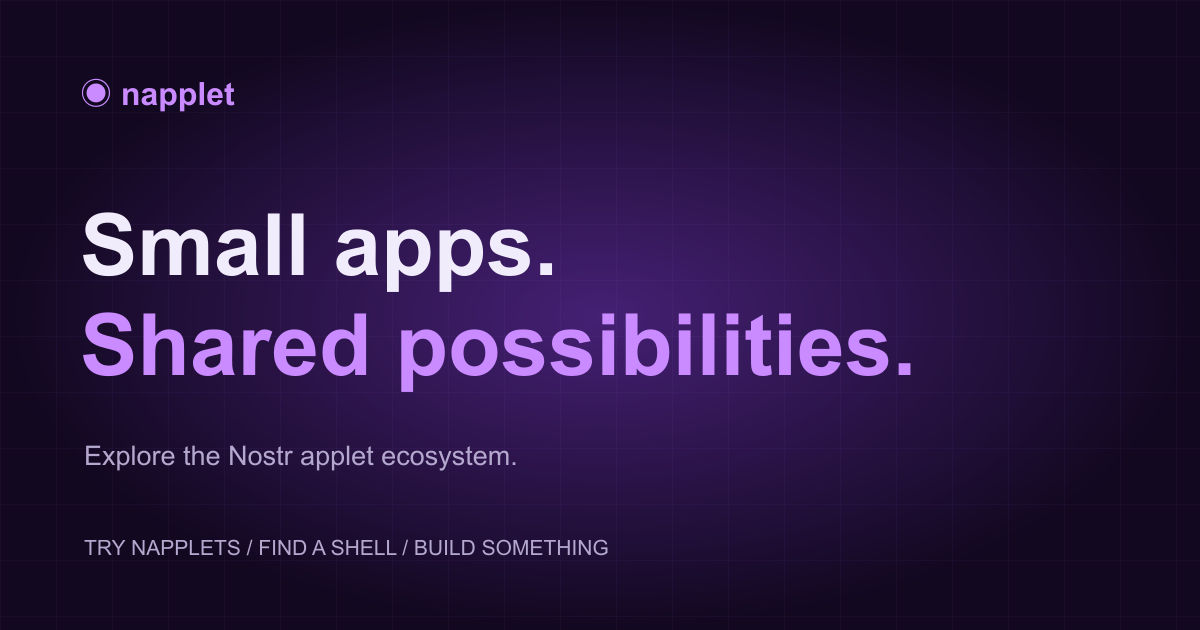
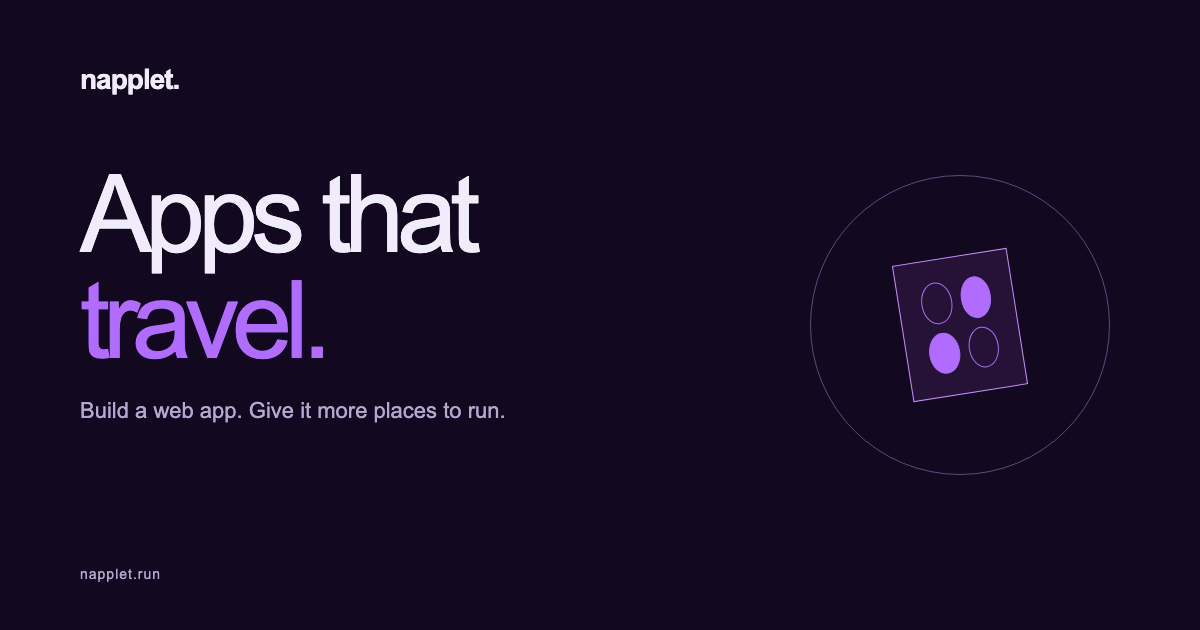
feat(web): carry the app through the scroll narrative
Label historical previews, preserve their signature chain, and verify responsive motion and static deployment output.

diff --git a/apps/web/src/styles/showcase.css b/apps/web/src/styles/showcase.css
@@ -1,4 +1,4 @@
-/* The ecosystem homepage shares the explainer's aubergine and Nostr purple. */
+/* Shared aubergine palette with the technical explainer. */
 :root {
   font-family: Inter, ui-sans-serif, system-ui, -apple-system, BlinkMacSystemFont, "Segoe UI", sans-serif;
   color: #f1ecfb;
@@ -43,7 +43,7 @@ img { max-width: 100%; display: block; }
 .hero-scene { padding-top: 152px; padding-bottom: 112px; }
 .hero-scene::before { background: radial-gradient(ellipse at 74% 48%, #702ab52a, transparent 58%); }
 .hero-grid { display: grid; grid-template-columns: 1.05fr 1fr; align-items: center; gap: 52px; }
-.hero-grid > *, .composition-apps > *, .protocol-grid > * { min-width: 0; }
+.hero-grid > *, .protocol-grid > * { min-width: 0; }
 .eyebrow { display: flex; align-items: center; gap: 12px; margin-bottom: 24px; color: var(--accent-bright); font: 11px/1.5 var(--mono); letter-spacing: 1.9px; text-transform: uppercase; }
 .status-dot { display: inline-block; width: 6px; height: 6px; border-radius: 50%; background: #c98bff; box-shadow: 0 0 10px #b06bff50; flex-shrink: 0; }
 .hero-copy h1 { font-size: clamp(56px, 6.8vw, 92px); font-weight: 640; }
@@ -61,36 +61,6 @@ img { max-width: 100%; display: block; }
 .hero-baseline { position: absolute; left: 0; right: 0; bottom: 30px; display: flex; justify-content: space-between; gap: 18px; color: #ac9abf; font: 10px/1.5 var(--mono); letter-spacing: 0.7px; }
 .hero-baseline a { display: flex; align-items: center; gap: 22px; }
 .hero-baseline a span { font-size: 18px; color: var(--accent); }
-.composition { position: relative; padding-top: 72px; padding-bottom: 36px; width: 100%; max-width: 540px; margin-inline: auto; isolation: isolate; }
-.composition-orbit { position: absolute; width: 96%; aspect-ratio: 1; border: 1px dashed #b06bff20; border-radius: 50%; left: 2%; top: -14%; z-index: -1; }
-.composition-orbit::before { content: ""; position: absolute; inset: 40px; border: 1px solid #b06bff10; border-radius: 50%; }
-.composition-caption { position: absolute; top: 0; left: 0; width: 100%; display: flex; align-items: center; justify-content: space-between; color: #aa82cd; font: 9px var(--mono); letter-spacing: 2px; }
-.crosshair { font-size: 23px; font-weight: 300; }
-.composition-apps { display: grid; grid-template-columns: repeat(3, minmax(0, 1fr)); gap: 16px; position: relative; z-index: 1; }
-.composition-app { aspect-ratio: 0.88; border: 1px solid #735194; border-radius: 10px; padding: 18px 14px 12px; display: flex; flex-direction: column; align-items: flex-start; background: linear-gradient(145deg, #3a1b5b, #241237); box-shadow: 0 20px 40px #08020f40; }
-.app-music { transform: rotate(-7deg) translateY(8px); border-color: #72508e; }
-.app-notes { transform: translateY(-14px); background: linear-gradient(145deg, #253c44, #182931); border-color: #416671; }
-.app-discover { transform: rotate(7deg) translateY(8px); background: linear-gradient(145deg, #48274b, #321630); border-color: #78446d; }
-.app-symbol { font-size: 34px; color: #d8a9ff; line-height: 1; }
-.app-notes .app-symbol { color: #92dce1; }
-.app-discover .app-symbol { color: #f1a8d3; }
-.app-caption { font: 8px/1.5 var(--mono); color: #dbcae7; margin-top: auto; padding-top: 20px; white-space: nowrap; }
-.waveform { display: flex; align-items: center; gap: 4px; height: 34px; width: 100%; margin-top: 15px; }
-.waveform i { flex: 1; height: 45%; background: #b980ec; border-radius: 2px; }
-.waveform i:nth-child(2n) { height: 85%; }.waveform i:nth-child(3n) { height: 60%; }.waveform i:nth-child(4) { height: 100%; }
-.note-lines { width: 100%; margin-top: 16px; display: grid; gap: 8px; }
-.note-lines i { height: 3px; width: 95%; background: #78afb766; border-radius: 2px; }.note-lines i:last-child { width: 60%; }
-.discovery-dots { display: flex; margin-top: 18px; }.discovery-dots i { width: 23px; height: 23px; border-radius: 50%; border: 2px solid #542b50; background: #d787b9; margin-right: -7px; }.discovery-dots i:nth-child(2) { background: #8b6cc9; }.discovery-dots i:nth-child(3) { background: #7dc2c9; }.discovery-dots i:nth-child(4) { background: #e1b776; }
-.composition-paths { height: 60px; display: grid; grid-template-columns: repeat(3, 1fr); gap: 16px; padding-inline: 40px; }
-.composition-paths i { width: 1px; margin-inline: auto; background: linear-gradient(#9c6bcc, #9c6bcc30); position: relative; transform-origin: top; }
-.composition-paths i::after { content: ""; position: absolute; width: 5px; height: 5px; bottom: 0; left: -2px; border-radius: 50%; background: #c98bff; }
-.composition-shell { border: 1px solid #755297; border-radius: 9px; background: linear-gradient(115deg, #351b4b, #221130); box-shadow: 0 22px 70px #8b2ff725; }
-.composition-shell-top { display: flex; align-items: center; gap: 12px; padding: 19px 20px; font-size: 14px; }
-.shell-logomark { color: #cf9afa; font-weight: 700; font-size: 27px; line-height: 1; letter-spacing: -2px; }
-.shell-window-controls { margin-left: auto; color: #a58ab9; font: 11px var(--mono); }
-.composition-shell-bottom { padding: 12px 20px; border-top: 1px solid #79528a33; display: flex; align-items: center; justify-content: space-between; gap: 14px; color: #c1accf; font-size: 10px; }
-.shell-status { font: 8px var(--mono); display: flex; align-items: center; gap: 6px; }.shell-status i { width: 4px; height: 4px; background: #87d7b1; border-radius: 50%; }
-.composition-footnote { display: flex; justify-content: space-between; margin-top: 20px; color: #ad8ec3; font: 8px var(--mono); letter-spacing: 0.8px; }
 .section-heading { display: flex; justify-content: space-between; align-items: flex-end; gap: 48px; margin-bottom: 46px; }
 .section-number { color: #a184bb; letter-spacing: 0; }
 h2 { font-size: clamp(44px, 5.2vw, 68px); font-weight: 580; }
@@ -127,10 +97,10 @@ h3 { font-size: 22px; font-weight: 600; letter-spacing: -0.04em; }
 .proposal-status { display: inline-flex; align-items: center; gap: 10px; border: 1px solid #5b3a78; border-radius: 4px; padding: 10px 14px; margin-top: 26px; font: 10px var(--mono); color: #d7b3f7; }.proposal-status:hover { border-color: var(--accent); }.protocol-note { color: #aa95bd; font-size: 11px; margin-top: 21px; max-width: 40ch; line-height: 1.8; }
 .protocol-layer { display: flex; align-items: center; gap: 24px; background: linear-gradient(120deg, #251336, #1b102b); border: 1px solid #543667; padding: 24px; border-radius: 6px; }.protocol-layer:hover { border-color: var(--accent); }.layer-index { font: 11px var(--mono); color: #ab81c8; align-self: flex-start; }.protocol-layer h3 { font-size: 30px; margin-top: 6px; }.protocol-layer p { color: var(--muted); font-size: 11px; margin-top: 9px; }.layer-arrow { margin-left: auto; color: #b58cdb; font-size: 21px; }.stack-connector { display: flex; align-items: center; gap: 14px; margin-left: 30px; height: 42px; font: 8px var(--mono); color: #b29bc5; }.stack-connector i { width: 1px; height: 100%; background: #73518e; transform-origin: top; }
 .site-footer { display: flex; align-items: center; flex-wrap: wrap; gap: 26px; padding-block: 35px; }.site-footer .wordmark { font-size: 21px; }.site-footer > p { color: #a18bb6; font-size: 10px; }.site-footer nav { margin-left: auto; display: flex; gap: 22px; font-size: 10px; color: #c4b1d5; }
-@media (min-width: 1600px) { .section-wrap { width: min(1360px, calc(100% - 128px)); }.site-header { padding-inline: max(64px, calc((100vw - 1360px) / 2)); }.hero-copy h1 { font-size: 100px; }.hero-lead { font-size: 19px; }.composition { max-width: 580px; } }
-@media (max-width: 1050px) {  .section-wrap { width: calc(100% - 64px); }.site-header { padding-inline: 32px; }.hero-grid { gap: 32px; }.hero-copy h1 { font-size: clamp(51px, 6.8vw, 75px); }.hero-lead { font-size: 15px; }.composition-apps { gap: 10px; }.composition-app { padding: 15px 10px 10px; }.app-caption { font-size: 7px; }.composition-shell-bottom { font-size: 8px; padding-inline: 14px; }.composition-footnote { font-size: 7px; }.section-heading { gap: 32px; }.section-intro { font-size: 14px; max-width: 32ch; }.napplet-grid { gap: 16px; }.napplet-details { padding: 20px 16px; }.napplet-preview { padding: 16px 16px 0; }.protocol-grid { gap: 48px; }.protocol-layer { padding: 22px 18px; gap: 16px; } }
-@media (max-width: 760px) { .section-wrap { width: calc(100% - 40px); }.scene { padding-block: 80px 64px; }.site-header { height: 68px; padding-inline: 20px; gap: 18px; }.wordmark { font-size: 23px; }.desktop-nav { display: none; }.header-docs { margin-left: auto; font-size: 11px; padding: 6px 10px; gap: 10px; }.mobile-nav { display: block; }.mobile-nav summary { list-style: none; cursor: pointer; font-size: 11px; min-height: 44px; display: flex; align-items: center; gap: 8px; }.mobile-nav summary::-webkit-details-marker { display: none; }.mobile-nav summary > span { color: var(--accent); font-size: 18px; }.mobile-nav[open] summary > span { transform: rotate(45deg); }.mobile-nav nav { position: absolute; top: 67px; left: 0; right: 0; display: grid; padding: 16px 20px 22px; background: #1c0d2d; border-bottom: 1px solid #755097; box-shadow: 0 20px 35px #07021066; }.mobile-nav nav a { padding: 12px 2px; font-size: 14px; border-bottom: 1px solid #44245e; }.hero-scene { padding-top: 119px; padding-bottom: 110px; }.hero-grid { grid-template-columns: 1fr; gap: 68px; }.hero-copy h1 { font-size: clamp(51px, 11vw, 79px); }.hero-lead { max-width: 45ch; font-size: 15px; margin-top: 23px; }.eyebrow { font-size: 9px; letter-spacing: 1.4px; margin-bottom: 20px; }.hero-actions { margin-top: 27px; }.button { font-size: 12px; padding: 12px 17px; gap: 18px; }.hero-copy > .quiet-link { font-size: 11px; }.composition { width: 90%; max-width: 470px; padding-top: 46px; }.composition-orbit { top: -13%; }.composition-app { aspect-ratio: 0.95; padding: 16px 12px 12px; }.composition-apps { gap: 14px; }.app-caption { font-size: 8px; padding-top: 14px; }.composition-shell-bottom { font-size: 9px; }.composition-footnote { font-size: 8px; }.hero-baseline { bottom: 24px; font-size: 8px; }.hero-baseline > span { max-width: 18ch; }.hero-baseline a { gap: 10px; }.section-heading { display: block; margin-bottom: 34px; }.section-intro { max-width: 44ch; font-size: 14px; margin-top: 23px; }h2 { font-size: clamp(43px, 10vw, 62px); }.napplet-grid { grid-template-columns: 1fr; gap: 26px; }.napplet-preview { aspect-ratio: 16 / 9; padding: 24px 24px 0; }.napplet-details { padding: 24px; }.napplet-details > p:not(.card-category) { min-height: 0; font-size: 13px; }.card-category { font-size: 9px; }.napplet-details h3 { font-size: 26px; }.card-links { margin-top: 17px; }.run-link { font-size: 13px; }.source-link { font-size: 11px; }.section-note { flex-wrap: wrap; font-size: 10px; gap: 9px; margin-top: 28px; }.section-note a { width: 100%; margin-left: 24px; }.shell-grid { grid-template-columns: 1fr; gap: 35px; }.shell-description { padding-top: 19px; }.shell-description p:not(.card-category) { max-width: none; }.protocol-grid { grid-template-columns: 1fr; gap: 44px; }.protocol-note { max-width: 47ch; }.protocol-layer { padding: 24px; }.protocol-layer p { font-size: 12px; }.protocol-stack { max-width: 520px; width: 100%; }.site-footer { gap: 15px; padding-block: 30px; }.site-footer > p { margin-left: auto; font-size: 9px; }.site-footer nav { width: 100%; margin-left: 0; gap: 20px; flex-wrap: wrap; font-size: 10px; padding-top: 10px; } }
-@media (max-width: 380px) { .section-wrap { width: calc(100% - 32px); }.site-header { padding-inline: 16px; gap: 12px; }.wordmark { font-size: 21px; }.wordmark img { width: 23px; height: 23px; margin-right: 7px; }.hero-copy h1 { font-size: 48px; }.hero-actions { gap: 8px; }.button { padding-inline: 13px; gap: 12px; }.composition { width: 95%; }.composition-apps { gap: 10px; }.composition-app { padding-inline: 9px; }.app-caption { font-size: 6px; }.app-symbol { font-size: 29px; }.composition-shell-bottom { font-size: 8px; }.shell-status { font-size: 7px; }.composition-footnote { font-size: 7px; }.quiet-link { gap: 7px; }.hero-copy > .quiet-link { font-size: 10px; }.protocol-layer { padding: 20px 16px; gap: 14px; }.protocol-layer p { font-size: 11px; }.protocol-layer .card-category { font-size: 8px; } }
+@media (min-width: 1600px) { .section-wrap { width: min(1360px, calc(100% - 128px)); }.site-header { padding-inline: max(64px, calc((100vw - 1360px) / 2)); }.hero-copy h1 { font-size: 100px; }.hero-lead { font-size: 19px; } }
+@media (max-width: 1050px) {  .section-wrap { width: calc(100% - 64px); }.site-header { padding-inline: 32px; }.hero-grid { gap: 32px; }.hero-copy h1 { font-size: clamp(51px, 6.8vw, 75px); }.hero-lead { font-size: 15px; }.section-heading { gap: 32px; }.section-intro { font-size: 14px; max-width: 32ch; }.napplet-grid { gap: 16px; }.napplet-details { padding: 20px 16px; }.napplet-preview { padding: 16px 16px 0; }.protocol-grid { gap: 48px; }.protocol-layer { padding: 22px 18px; gap: 16px; } }
+@media (max-width: 760px) { .section-wrap { width: calc(100% - 40px); }.scene { padding-block: 80px 64px; }.site-header { height: 68px; padding-inline: 20px; gap: 18px; }.wordmark { font-size: 23px; }.desktop-nav { display: none; }.header-docs { margin-left: auto; font-size: 11px; padding: 6px 10px; gap: 10px; }.mobile-nav { display: block; }.mobile-nav summary { list-style: none; cursor: pointer; font-size: 11px; min-height: 44px; display: flex; align-items: center; gap: 8px; }.mobile-nav summary::-webkit-details-marker { display: none; }.mobile-nav summary > span { color: var(--accent); font-size: 18px; }.mobile-nav[open] summary > span { transform: rotate(45deg); }.mobile-nav nav { position: absolute; top: 67px; left: 0; right: 0; display: grid; padding: 16px 20px 22px; background: #1c0d2d; border-bottom: 1px solid #755097; box-shadow: 0 20px 35px #07021066; }.mobile-nav nav a { padding: 12px 2px; font-size: 14px; border-bottom: 1px solid #44245e; }.hero-scene { padding-top: 119px; padding-bottom: 110px; }.hero-grid { grid-template-columns: 1fr; gap: 68px; }.hero-copy h1 { font-size: clamp(51px, 11vw, 79px); }.hero-lead { max-width: 45ch; font-size: 15px; margin-top: 23px; }.eyebrow { font-size: 9px; letter-spacing: 1.4px; margin-bottom: 20px; }.hero-actions { margin-top: 27px; }.button { font-size: 12px; padding: 12px 17px; gap: 18px; }.hero-copy > .quiet-link { font-size: 11px; }.hero-baseline { bottom: 24px; font-size: 8px; }.hero-baseline > span { max-width: 18ch; }.hero-baseline a { gap: 10px; }.section-heading { display: block; margin-bottom: 34px; }.section-intro { max-width: 44ch; font-size: 14px; margin-top: 23px; }h2 { font-size: clamp(43px, 10vw, 62px); }.napplet-grid { grid-template-columns: 1fr; gap: 26px; }.napplet-preview { aspect-ratio: 16 / 9; padding: 24px 24px 0; }.napplet-details { padding: 24px; }.napplet-details > p:not(.card-category) { min-height: 0; font-size: 13px; }.card-category { font-size: 9px; }.napplet-details h3 { font-size: 26px; }.card-links { margin-top: 17px; }.run-link { font-size: 13px; }.source-link { font-size: 11px; }.section-note { flex-wrap: wrap; font-size: 10px; gap: 9px; margin-top: 28px; }.section-note a { width: 100%; margin-left: 24px; }.shell-grid { grid-template-columns: 1fr; gap: 35px; }.shell-description { padding-top: 19px; }.shell-description p:not(.card-category) { max-width: none; }.protocol-grid { grid-template-columns: 1fr; gap: 44px; }.protocol-note { max-width: 47ch; }.protocol-layer { padding: 24px; }.protocol-layer p { font-size: 12px; }.protocol-stack { max-width: 520px; width: 100%; }.site-footer { gap: 15px; padding-block: 30px; }.site-footer > p { margin-left: auto; font-size: 9px; }.site-footer nav { width: 100%; margin-left: 0; gap: 20px; flex-wrap: wrap; font-size: 10px; padding-top: 10px; } }
+@media (max-width: 380px) { .section-wrap { width: calc(100% - 32px); }.site-header { padding-inline: 16px; gap: 12px; }.wordmark { font-size: 21px; }.wordmark img { width: 23px; height: 23px; margin-right: 7px; }.hero-copy h1 { font-size: 48px; }.hero-actions { gap: 8px; }.button { padding-inline: 13px; gap: 12px; }.quiet-link { gap: 7px; }.hero-copy > .quiet-link { font-size: 10px; }.protocol-layer { padding: 20px 16px; gap: 14px; }.protocol-layer p { font-size: 11px; }.protocol-layer .card-category { font-size: 8px; } }
 @media (prefers-reduced-motion: reduce) { html { scroll-behavior: auto; }*, *::before, *::after { animation: none !important; transition: none !important; } }
 /* Cancel the page's anchor offset so the whole final viewport remains visible. */
 .build-scene { min-height: 100svh; padding-block: clamp(20px, 5svh, 56px); scroll-margin-top: -85px; }
@@ -204,3 +174,21 @@ h2 { font-weight: 450; font-size: clamp(46px, 5.4vw, 76px); }
   .site-footer { gap: 16px; }.site-footer > p { margin-left: 0; }
 }
 @media (prefers-reduced-motion: reduce) { .journey-frame { top: 72px; }.journey-progress { transform: scaleY(1); } }
+/* The traveling glyph becomes hosted, connected, then an open canvas. */
+.object-app { transform: none; }
+.journey-traveler { display: none; position: fixed; left: 0; top: 0; z-index: 16; width: 130px; height: 150px; transform-origin: 0 0; pointer-events: none; }
+.traveler-app { position: absolute; inset: 0; border: 1px solid var(--accent-bright); background: #241334; display: grid; grid-template-columns: 1fr 1fr; gap: 10px; padding: 24px; transition: border-radius .6s, background .6s; }
+.traveler-app i { border: 1px solid var(--accent); border-radius: 50%; transition: transform .6s, opacity .6s, border-radius .6s; }
+.traveler-app i:nth-child(2), .traveler-app i:nth-child(3) { background: var(--accent); }
+.traveler-host { position: absolute; inset: -22px; border: 2px solid var(--accent); opacity: 0; transform: scale(.8); transition: opacity .6s, transform .6s; }
+.traveler-host::before { content: ''; position: absolute; left: 0; right: 0; top: 13px; border-top: 2px solid var(--accent); }
+.traveler-ports { position: absolute; inset: 0; opacity: 0; transition: opacity .6s; }
+.traveler-ports i { position: absolute; left: 100%; top: 25%; width: 30px; height: 2px; background: var(--accent); }
+.traveler-ports i::after { content: ''; position: absolute; right: -6px; top: -4px; width: 10px; height: 10px; border: 2px solid var(--accent); background: var(--bg); }
+.traveler-ports i:nth-child(2) { top: 50%; }.traveler-ports i:nth-child(3) { top: 75%; }
+.journey-traveler[data-chapter='shells'] .traveler-host { opacity: 1; transform: scale(1); }
+.journey-traveler[data-chapter='protocol'] .traveler-ports { opacity: 1; }
+.journey-traveler[data-chapter='protocol'] .traveler-app i { border-radius: 0; }
+.journey-traveler[data-chapter='build'] .traveler-app { background: var(--bg); border-style: dashed; }
+.journey-traveler[data-chapter='build'] .traveler-app i { transform: scale(.2); opacity: .5; }
+@media (min-width: 761px) { .journey-frame { width: 38px; height: 44px; left: -5px; } }

diff --git a/apps/web/src/lib/player/verify.test.ts b/apps/web/src/lib/player/verify.test.ts
@@ -2,20 +2,19 @@ import { readFileSync } from 'node:fs';
 import { describe, expect, it } from 'vitest';
 import { finalizeEvent, generateSecretKey } from 'nostr-tools/pure';
 import { NAPPLETS } from '../showcase';
-import { verifyManifest, verifiedDocument, sha256 } from './verify';
+import { verifyArchivedRelease, verifiedDocument, sha256 } from './verify';
 
 const root = new URL('../../../', import.meta.url);
 function fixture(path: string) { return readFileSync(new URL(`public${path}`, root)); }
 function manifest(path: string) { return JSON.parse(fixture(path).toString()); }
 
-describe('the curated signed releases', () => {
+describe('the archived signed releases', () => {
   for (const entry of NAPPLETS) {
     it(`verifies ${entry.name} against the original signed bytes`, async () => {
       const event = manifest(entry.manifest);
-      const identity = await verifyManifest(event, entry.eventId);
+      const identity = await verifyArchivedRelease(event, entry.eventId);
       const bytes = fixture(entry.artifact);
       expect(await sha256(bytes)).toBe(identity.artifactHash);
-      expect(identity.aggregateHash).toBe(event.tags.find((tag: string[]) => tag[0] === 'x')[1]);
       const doc = await verifiedDocument(bytes, identity.artifactHash);
       expect(doc.endsWith(bytes.toString())).toBe(true);
       expect(doc.indexOf('window.napplet=Object.freeze({})')).toBeLessThan(doc.indexOf(bytes.toString()));
@@ -27,8 +26,8 @@ describe('the curated signed releases', () => {
     const entry = NAPPLETS[0];
     const changed = manifest(entry.manifest);
     changed.content = 'tampered';
-    await expect(verifyManifest(changed, entry.eventId)).rejects.toThrow('signature');
-    await expect(verifyManifest(manifest(entry.manifest), NAPPLETS[1].eventId)).rejects.toThrow('selected');
+    await expect(verifyArchivedRelease(changed, entry.eventId)).rejects.toThrow('signature');
+    await expect(verifyArchivedRelease(manifest(entry.manifest), NAPPLETS[1].eventId)).rejects.toThrow('selected');
   });
 
   it('rejects altered artifact bytes before returning any executable document', async () => {
@@ -42,13 +41,13 @@ describe('the curated signed releases', () => {
     const original = manifest(NAPPLETS[0].manifest);
     const tags = original.tags.map((tag: string[]) => tag[0] === 'x' ? ['x', '0'.repeat(64), 'aggregate'] : tag);
     const event = finalizeEvent({ kind: original.kind, created_at: original.created_at, content: '', tags }, generateSecretKey());
-    await expect(verifyManifest(event, event.id)).rejects.toThrow('aggregate');
+    await expect(verifyArchivedRelease(event, event.id)).rejects.toThrow('aggregate');
   });
 
-  it('ignores non-protocol HTML metadata and permits a missing optional x tag', async () => {
+  it('requires the archived hash chain and does not require embedded metadata', async () => {
     const original = manifest(NAPPLETS[0].manifest);
     const event = finalizeEvent({ ...original, tags: original.tags.filter((tag: string[]) => tag[0] !== 'x') }, generateSecretKey());
-    await expect(verifyManifest(event, event.id)).resolves.toHaveProperty('aggregateHash');
+    await expect(verifyArchivedRelease(event, event.id)).rejects.toThrow('aggregate');
     const plain = new TextEncoder().encode('<h1>Plain app</h1>');
     expect(await verifiedDocument(plain, await sha256(plain))).toContain('<h1>Plain app</h1>');
   });
@@ -56,6 +55,6 @@ describe('the curated signed releases', () => {
   it('does not pretend to grant required services unavailable in the preview', async () => {
     const original = manifest(NAPPLETS[0].manifest);
     const event = finalizeEvent({ ...original, tags: [...original.tags, ['requires', 'storage']] }, generateSecretKey());
-    await expect(verifyManifest(event, event.id)).rejects.toThrow('unavailable');
+    await expect(verifyArchivedRelease(event, event.id)).rejects.toThrow('unavailable');
   });
 });

diff --git a/apps/web/src/lib/animations.ts b/apps/web/src/lib/animations.ts
@@ -12,14 +12,38 @@ export function initShowcaseAnimations(): () => void {
   gsap.registerPlugin(ScrollTrigger);
   const media = gsap.matchMedia();
   media.add('(prefers-reduced-motion: no-preference)', () => {
-    gsap.from('.object-app', { rotation: 9, y: 18, duration: 1.4, ease: 'power3.out' });
+    const source = document.querySelector<HTMLElement>('.object-app');
+    const dock = document.querySelector<HTMLElement>('.journey-frame');
+    const traveler = document.querySelector<HTMLElement>('.journey-traveler');
+    if (source && dock && traveler) {
+      // One app leaves the opening illustration and stays beside the reading path.
+      // Measurements come from static anchors so refresh and deep links agree.
+      const origin = () => {
+        const box = source.getBoundingClientRect();
+        return { x: box.left, y: box.top + window.scrollY, scale: box.width / 130 };
+      };
+      gsap.set([source, dock], { opacity: 0 });
+      gsap.set(traveler, { display: 'block' });
+      gsap.fromTo(traveler, {
+        x: () => origin().x, y: () => origin().y, scale: () => origin().scale,
+      }, {
+        x: () => dock.getBoundingClientRect().left,
+        y: () => dock.getBoundingClientRect().top,
+        scale: () => dock.offsetWidth / 130,
+        ease: 'power2.inOut',
+        scrollTrigger: { trigger: '#top', start: 'top top', end: 'bottom 35%', scrub: .4, invalidateOnRefresh: true },
+      });
+    }
     gsap.to('.journey-progress', { scaleY: 1, ease: 'none', scrollTrigger: { trigger: 'main', start: 'top top', end: 'bottom bottom', scrub: true } });
-    gsap.to('.journey-frame', { y: 150, ease: 'none', scrollTrigger: { trigger: 'main', start: 'top top', end: 'bottom bottom', scrub: .35 } });
+
     const labels = ['APP / 00', 'PLAY / 01', 'HOST / 02', 'CONNECT / 03', 'MAKE / 04'];
     const label = document.querySelector('.journey-label');
     document.querySelectorAll<HTMLElement>('main > .scene').forEach((section, index) => {
       ScrollTrigger.create({ trigger: section, start: 'top center', end: 'bottom center', onToggle: self => {
-        if (self.isActive && label) label.textContent = labels[index];
+        if (self.isActive) {
+          if (label) label.textContent = labels[index];
+          if (traveler) traveler.dataset.chapter = section.id;
+        }
       } });
       if (section.id === 'napplets') {
         section.querySelectorAll('.napplet-preview').forEach(preview => {
@@ -40,7 +64,7 @@ export function initShowcaseAnimations(): () => void {
         });
       }
     });
-    return () => { if (label) label.textContent = 'APP / 00'; };
+    return () => { if (label) label.textContent = 'APP / 00'; if (traveler) delete traveler.dataset.chapter; };
   });
   let active = true;
   void document.fonts.ready.then(() => { if (active) ScrollTrigger.refresh(); });

diff --git a/apps/web/src/lib/player/verify.ts b/apps/web/src/lib/player/verify.ts
@@ -1,7 +1,9 @@
 /**
- * Verified srcdoc loading adapted from napplet.soy's MIT-licensed runtime.
- * See /showcase/NOTICE.txt. Protocol authority: NIP-5D Identity / Transport,
- * and NIP-5A Content Addressing, not this site's curated-player policy.
+ * Integrity checks for three pinned historical showcase releases.
+ * Their signed envelopes predate the current NIP-5D manifest revision.
+ * This is an archive adapter, not a current-protocol manifest validator.
+ * Loading code adapted from napplet.soy (MIT); see /showcase/NOTICE.txt.
+ * Current protocol: https://github.com/nostr-protocol/nips/pull/2303
  */
 import { validateEvent, verifyEvent, type Event } from 'nostr-tools/pure';
 
@@ -16,8 +18,8 @@ export async function sha256(bytes: Uint8Array): Promise<string> {
   return Array.from(new Uint8Array(hash), (byte) => byte.toString(16).padStart(2, '0')).join('');
 }
 
-/** Verify the selected signed release, its path and its NIP-5A aggregate. */
-export async function verifyManifest(input: unknown, eventId: string) {
+/** Verify the archived publisher signature and its original hash chain. */
+export async function verifyArchivedRelease(input: unknown, eventId: string) {
   if (!validateEvent(input) || !verifyEvent(input as Event)) {
     throw new Error('The napplet manifest signature could not be verified.');
   }
@@ -35,14 +37,14 @@ export async function verifyManifest(input: unknown, eventId: string) {
   const artifactHash = paths[0][2];
   const aggregateHash = await sha256(new TextEncoder().encode(`${artifactHash} /index.html\n`));
   const aggregates = event.tags.filter((tag) => tag[0] === 'x');
-  if (aggregates.some((tag) => tag[1] !== aggregateHash || tag[2] !== 'aggregate')) {
+  if (aggregates.length !== 1 || aggregates.some((tag) => tag[1] !== aggregateHash || tag[2] !== 'aggregate')) {
     throw new Error('The manifest aggregate hash does not match.');
   }
   // This curated preview grants no host services. Full shells are linked alongside it.
-  if (event.tags.some((tag) => tag[0] === 'requires')) {
+  if (event.tags.some((tag) => tag[0] === 'requires' || tag[0] === 'R')) {
     throw new Error('This release needs a service unavailable in this preview. Open it in its full shell.');
   }
-  return { dTag: identifiers[0][1], aggregateHash, artifactHash };
+  return { artifactHash };
 }
 
 /** Adapted from soy's verifiedDocument: verify first, then prepend shell policy. */

diff --git a/apps/web/src/lib/player/controller.ts b/apps/web/src/lib/player/controller.ts
@@ -13,7 +13,6 @@ export function setupPlayer(): void {
   let selected: PlayableNapplet | undefined;
   let opener: HTMLElement | undefined;
   let previousOverflow = '';
-  const identities = new WeakMap<Window, { dTag: string; aggregateHash: string }>();
 
   async function launch(item: PlayableNapplet) {
     active?.abort();
@@ -33,10 +32,10 @@ export function setupPlayer(): void {
     }
     const timeout = window.setTimeout(() => request.abort(new Error('The download timed out. Please try again.')), 15000);
     try {
-      const { fetchBytes, verifyManifest, verifiedDocument, PLAYER_SANDBOX } = await import('./verify');
+      const { fetchBytes, verifyArchivedRelease, verifiedDocument, PLAYER_SANDBOX } = await import('./verify');
       const signal = request.signal;
       const manifestBytes = await fetchBytes(item.manifest, signal);
-      const identity = await verifyManifest(JSON.parse(new TextDecoder().decode(manifestBytes)), item.eventId);
+      const identity = await verifyArchivedRelease(JSON.parse(new TextDecoder().decode(manifestBytes)), item.eventId);
       const document = await verifiedDocument(await fetchBytes(item.artifact, signal), identity.artifactHash);
       signal.throwIfAborted();
       const frame = window.document.createElement('iframe');
@@ -44,9 +43,8 @@ export function setupPlayer(): void {
       frame.sandbox.value = PLAYER_SANDBOX;
       frame.referrerPolicy = 'no-referrer';
       // This player exposes no NAP domains and consumes no inbound messages.
-      // Bind the Window before assigning any executable bytes (NIP-5D Identity).
+      // Archived demos are not presented as current-protocol conformance examples.
       stage.replaceChildren(frame);
-      identities.set(frame.contentWindow!, identity);
       await new Promise<void>((resolve, reject) => {
         const aborted = () => reject(signal.reason);
         signal.addEventListener('abort', aborted, { once: true });

diff --git a/.planning/quick/261019-bsw-rethink-website-communications-and-scrol/RESEARCH.md b/.planning/quick/261019-bsw-rethink-website-communications-and-scrol/RESEARCH.md
@@ -53,3 +53,21 @@ A live WebSocket query to `wss://relay.napplet.soy` for the three selected autho
 Validation for this checkpoint: web build and web type-check pass after syncing the lockfile dependencies. Updated `scripts/check-showcase.mjs` passes against the built static site on port 8107 at 1440×900, 390×844 and 320×568, including playable apps, close/focus/retry, one visible network mention, all four builder paths, no-JS, metadata and motion smoke checks. These checks do not establish current-protocol conformance or final visual quality. The first attempt against Astro dev included toolbar headings; the authoritative test runs against static output.
 
 Full `pnpm build` passes (12 tasks), and `pnpm type-check` passes (17 tasks). Website unit tests pass (11). AI-slop 0.12.0 changed-file scan scores 73/100 with four dependency advisories and one warning; no source findings. Its command exits 1; the existing workflow uses a 70-point score threshold. Dependency remediation and the final unchanged-policy gate remain to be evaluated before shipping. Full recursive unit run is tracked by exec session 42224 with output `/tmp/rethink-full-unit.log`. Static preview is served at port 8107 (session 29778); Astro development preview is on port 5176.
+
+## Motion and archive resolution
+
+The persistent visual is now one app glyph that travels from the hero into the chapter rail. It gains a surrounding host frame in the shell section, connection points in the protocol section, and an unfinished canvas outline in the builder section. Static source/dock anchors supply coordinates; GSAP recalculates on refresh and reverts when reduced motion is enabled. Browser checks confirmed forward/reverse navigation, all chapter labels, viewport bounds at 1440/390/320 widths, resizing and dynamic reduced-motion changes. The hero glyph and chapter rail remain useful static illustrations without JavaScript.
+
+The three demos remain original archived releases. This is an explicit revision to the initial migration plan: live relay evidence found no replacement events, and manufacturing new publisher signatures would be wrong. The page, modal, README and credits now disclose the archive status. The private verifier is named `verifyArchivedRelease`, documents the historical format, and requires the complete original signature/hash chain. The unused aggregate-based runtime identity map and its current-protocol claim are removed. The adapter is not a general shell validator, does not accept new releases from users, and is not presented as current-protocol conformance. No new wire surface or weakened artifact checks were introduced. A new current-format curated collection can replace these historical selections when their authors publish it.
+
+The old composition component and its unused main styles are removed. The social card is regenerated from deterministic site typography and the same app glyph through `scripts/generate-social-card.mjs`; inspected output is 1200×630 and 44,815 bytes. No stock imagery or claims about universal shell compatibility are used.
+
+## Deployment artifact evidence
+
+The full build, type-check and recursive unit runs completed successfully after this iteration. Conformance web was built with `/conformance/` base, then the exact production artifact was assembled with `scripts/assemble-site.mjs`. `check-showcase.mjs` passed against that artifact on port 8108, and the link crawler passed all 65 internal destinations. Automated axe-core WCAG A/AA checks reported zero violations at 1440×900, 390×844 and 320×568. Manual screenshots were inspected for desktop shell content, mobile full-page hierarchy, hero and the social card. These results are evidence of this iteration, not a guarantee of universal accessibility.
+
+HTTP checks confirmed 200 responses for napplet.soy, the Kehto site, Paja and the Kehto source repository. The assembled artifact resolves the app tutorial, agent skills, protocol directory/contribution guide and package index linked from the four builder paths. The existing protocol directory gives expert developers a short route to individual contracts without putting those technical explanations on the homepage.
+
+The unchanged AI-slop threshold is 70; the scan scores 73/100 with zero source findings. Advisories are http-cache-semantics, braces, source-map-js, @vue/server-renderer and sprintf-js, all outside this source change. The first two and last report no fix; two report patch upgrades. No gate was lowered. Dependency assessment remains separate from claiming a 100/100 score.
+
+PR #221 is currently conflicting with main, despite its old checks being green. Next: preserve this verified checkpoint, merge current main, resolve conflicts, rerun affected verification, push the existing PR and inspect new CI. Earlier checks on df379da5 do not validate the redesign.

diff --git a/apps/web/README.md b/apps/web/README.md
@@ -41,7 +41,7 @@ After assembly, `node scripts/check-protocol.mjs` verifies every detail page, so
 
 Edit `src/lib/showcase.ts` to change the selected napplets, shells, and developer tools. Keep names, descriptions, source links, and destinations tied to maintained projects. Editorial descriptions are non-normative; protocol status and requirements defer to the living [NIP-5D proposal](https://github.com/nostr-protocol/nips/pull/2303) and [NAPs track](https://github.com/napplet/naps).
 
-Playable entries point to locally mirrored signed manifests and their original artifact bytes. Preserve the publisher's signature and content hashes when adding or refreshing a selection; editing the downloaded HTML invalidates verification. The player verifies each signed manifest and artifact before execution. Its loader derives from the MIT-licensed [napplet.soy source](https://github.com/zeSchlausKwab/napplet-soy); retain the accompanying attribution when changing that implementation. A curated preview is a limited host for these selections, not a claim that the site implements every NAP.
+Playable entries are archived releases with locally mirrored signed manifests and original artifact bytes. These releases predate the current NIP-5D manifest schema and are labeled as archived in the page and player. The private `verifyArchivedRelease` adapter checks their historical signature/hash chain; it is not a current-protocol validator or a recommended shell implementation. Current implementations must follow the living specification, including its artifact-hash identity. Preserve the publisher's signature and content hashes when adding or refreshing a selection; editing the downloaded HTML invalidates verification. The player verifies each signed manifest and artifact before execution. Its loader derives from the MIT-licensed [napplet.soy source](https://github.com/zeSchlausKwab/napplet-soy); retain the accompanying attribution when changing that implementation. A curated preview is a limited host for these selections, not a claim that the site implements every NAP.
 
 ## Verify the deployed artifact
 
@@ -75,3 +75,7 @@ The onboarding check starts its own Astro development server and exercises the p
 `scripts/assemble-site.mjs` is shared by the deployment and link-check workflows. It places the homepage at `/`, the explainer at `/explainer/`, documentation at `/docs/`, and the conformance runtime at `/conformance/`. It checks for social artwork, robots and sitemap files, verifies the installer copies, and rejects conformance HTML built with the wrong base before replacing the previous artifact.
 
 The deployment workflow uploads the resulting `site/` directory to Bunny storage and purges the pull zone. Bunny is the canonical deployment; nsite is an optional mirror. The existing Bunny storage zone, endpoint, password, API key, and pull-zone ID remain GitHub Actions secrets. Website, docs, conformance, lockfile, or assembly changes trigger deployment after merging to `main` and trigger the corresponding pull-request link check. Configure credentials with `scripts/setup-site-secrets.sh`.
+
+## Homepage presentation checks
+
+`node scripts/check-showcase.mjs <assembled-site-url>` checks the four builder paths, the single below-fold network explanation, real archived previews, mobile layouts, no-JavaScript content, and the persistent GSAP glyph. It also switches reduced motion during a session to check cleanup. Regenerate the matching 1200×630 social card with `node scripts/generate-social-card.mjs` after changing its headline or visual motif.
